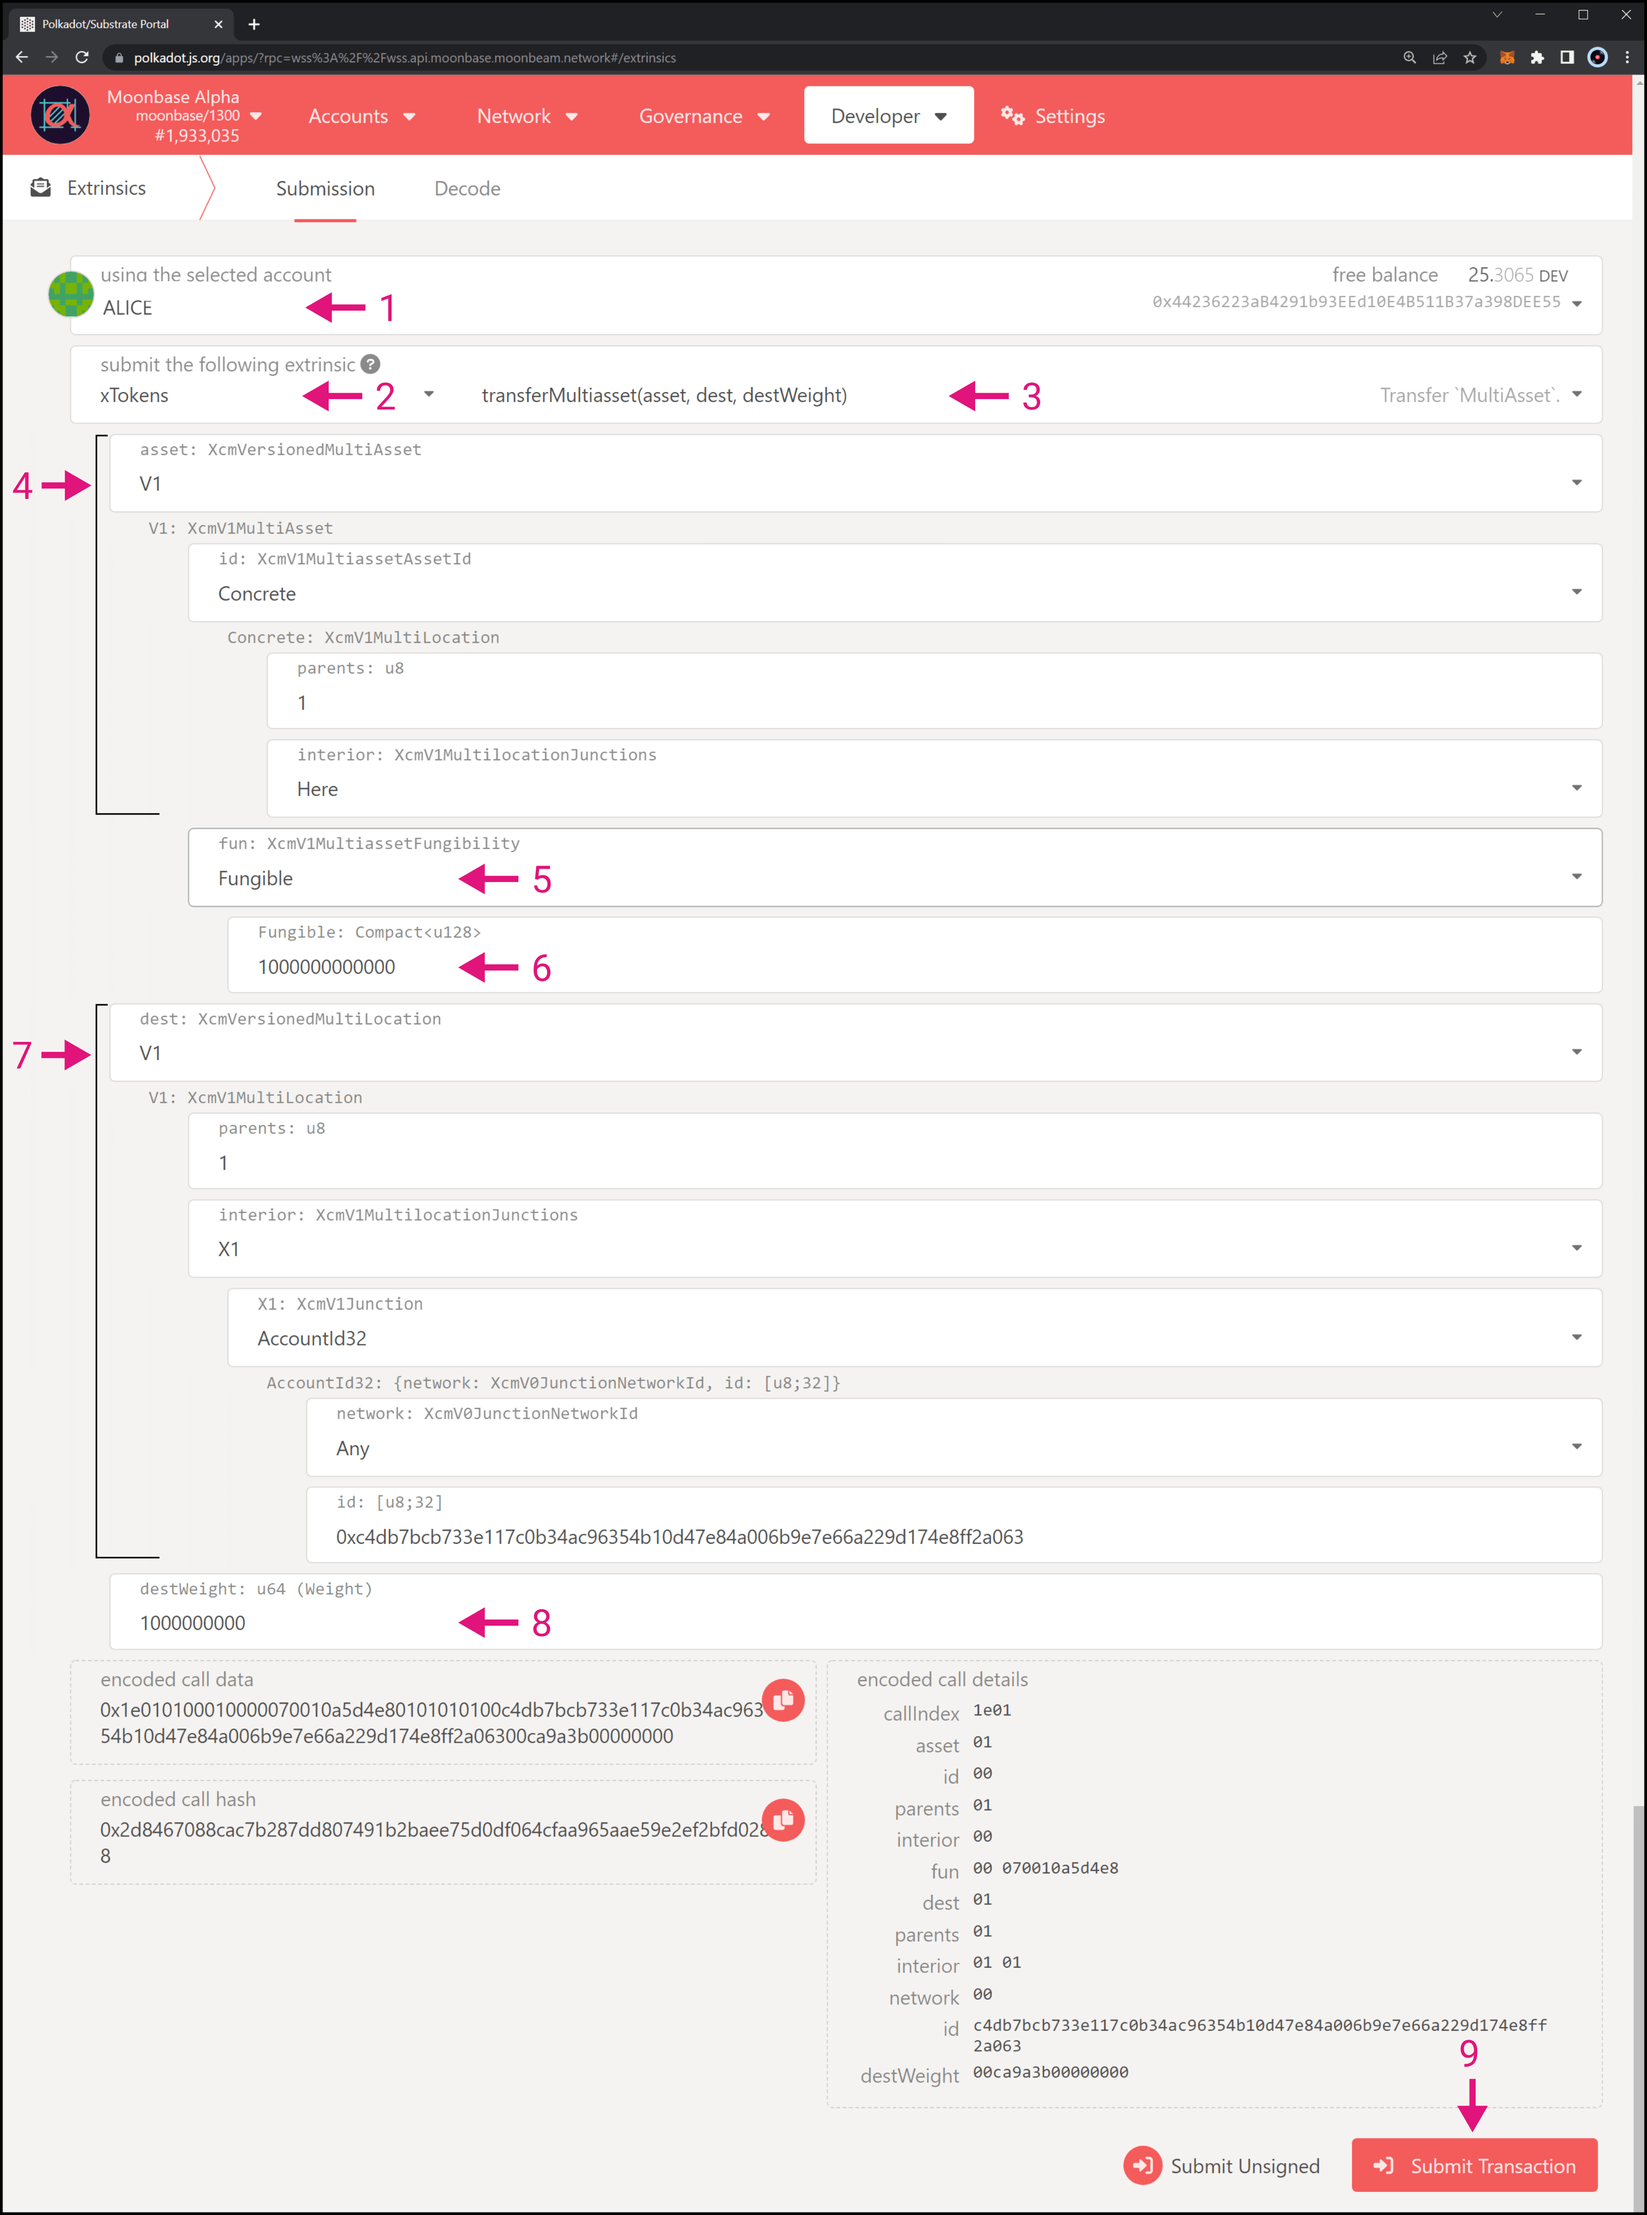
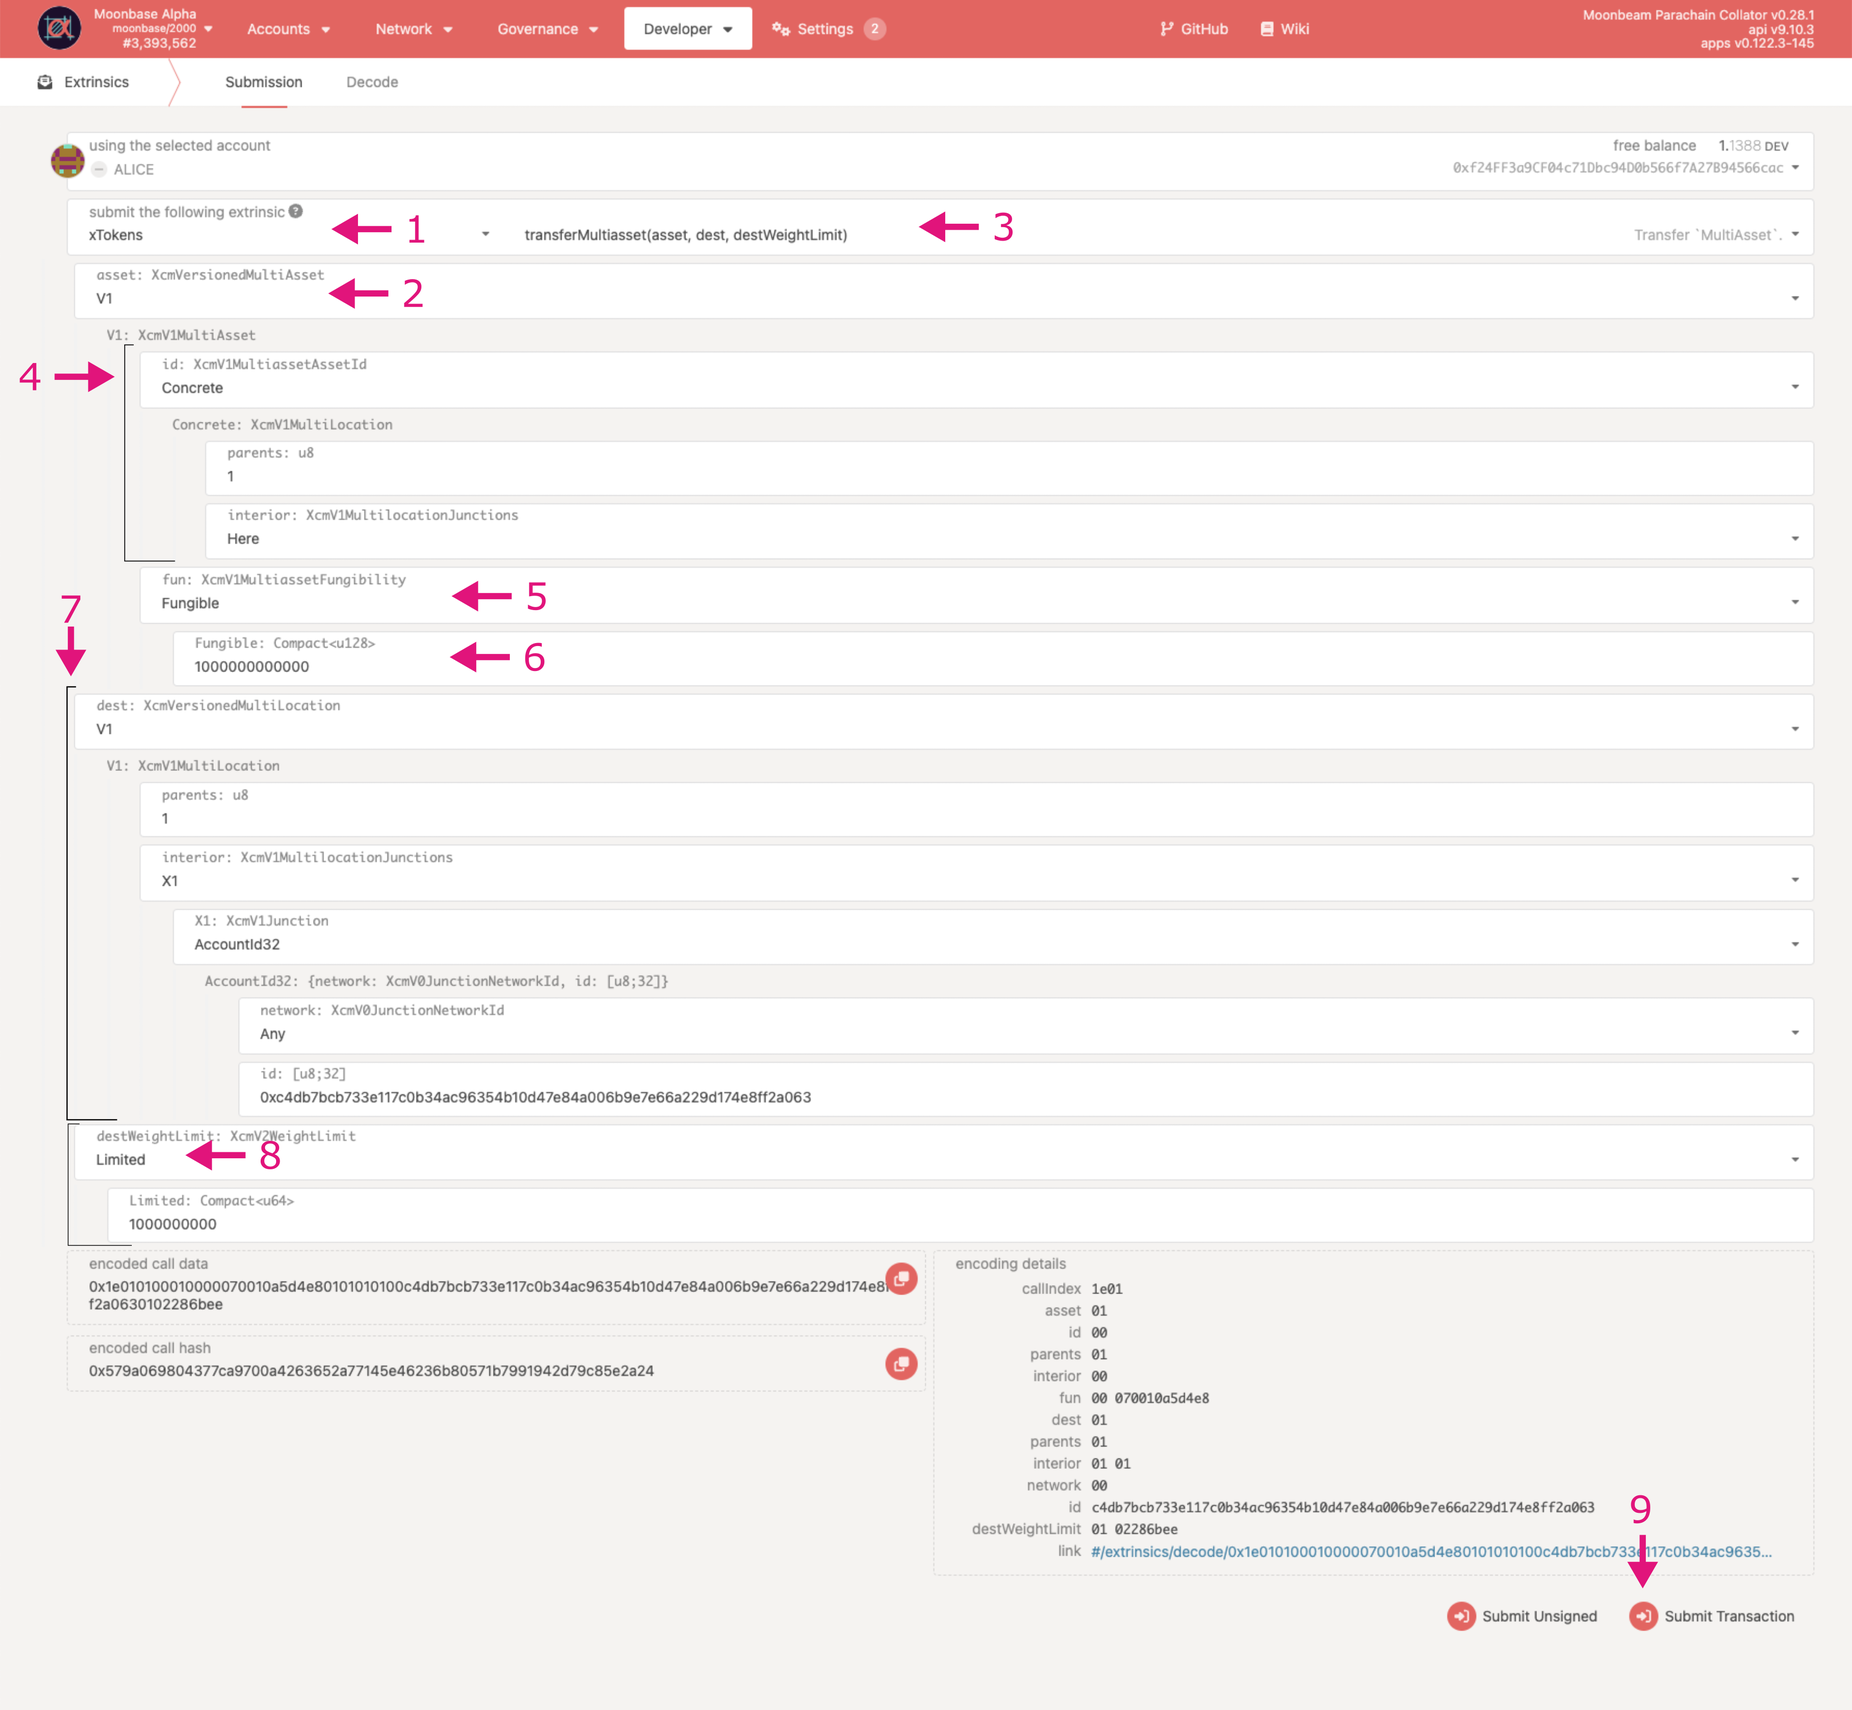
Updated destweight & xtokens images

diff --git a/builders/xcm/xc20/xtokens.md b/builders/xcm/xc20/xtokens.md
@@ -40,7 +40,7 @@ Where the inputs that need to be provided can be defined as:
  - **currencyId/currencies** — the ID/IDs of the currency/currencies being sent via XCM. Different runtimes have different ways to define the IDs. In the case of Moonbeam-based networks, `SelfReserve` refers to the native token, and `ForeignAsset` refers to the asset ID of the XC-20 (not to be confused with the XC-20 address)
  - **amount** — the number of tokens that are going to be sent via XCM
  - **dest** — a multilocation to define the destination address for the tokens being sent via XCM. It supports different address formats such as 20 or 32 bytes addresses (Ethereum or Substrate)
- - **destWeight** — the maximum amount of execution time you want to provide in the destination chain to execute the XCM message being sent. If not enough weight is provided, the execution of the XCM will fail, and funds might get locked in either the sovereign account or a special pallet. **It is important to correctly set the destination weight to avoid failed XCM executions**
+ - **destWeight** — an enum that represents the maximum amount of execution time you want to provide in the destination chain to execute the XCM message being sent. The `Unlimited` option allows for all of the asset used for gas included to be used to pay for weight. The `Limited` option limits the amount used for gas to a particular value. If not enough weight is provided, the execution of the XCM will fail, and funds might get locked in either the sovereign account or a special pallet. **It is important to correctly set the destination weight to avoid failed XCM executions**
  - **asset/assets** — a multilocation to define the asset/assets being sent via XCM. Each parachain has a different way to reference assets. For example, Moonbeam-based networks reference their native tokens with the pallet balances index
  - **fee** — a multilocation to define the asset used to pay for the XCM execution in the target chain
  - **feeItem** — an index to define the asset position of an array of assets being sent, used to pay for the XCM execution in the target chain. For example, if only one asset is being sent, the `feeItem` would be `0`
@@ -116,11 +116,11 @@ Head to the extrinsic page of [Polkadot.js Apps](https://polkadot.js.org/apps/?r
     |  Network  |      Any       |
     |    Id     | Target Account |
 
-8. Set the destination weight to `1000000000`. Note that on Moonbase Alpha, each XCM instruction costs around `100000000` weight units. A `transfer` consists of 4 XCM instructions, so a destination weight of `400000000` should be enough
+8. Set the destination weight as `Limited`, and its value to `1000000000`. Note that on Moonbase Alpha, each XCM instruction costs around `100000000` weight units. A `transfer` consists of 4 XCM instructions, so a destination weight of `400000000` should be enough
 9. Click the **Submit Transaction** button and sign the transaction
 
 !!! note
[2 lines of base64/hex data omitted]
 
 ![XCM X-Tokens Transfer Extrinsic](/images/builders/xcm/xc20/xtokens/xtokens-2.png)
 
@@ -171,7 +171,7 @@ Head to the extrinsic page of [Polkadot.js Apps](https://polkadot.js.org/apps/?r
 9. Click the **Submit Transaction** button and sign the transaction
 
 !!! note
[2 lines of base64/hex data omitted]
 
 ![XCM X-Tokens Transfer Extrinsic](/images/builders/xcm/xc20/xtokens/xtokens-3.png)
 
